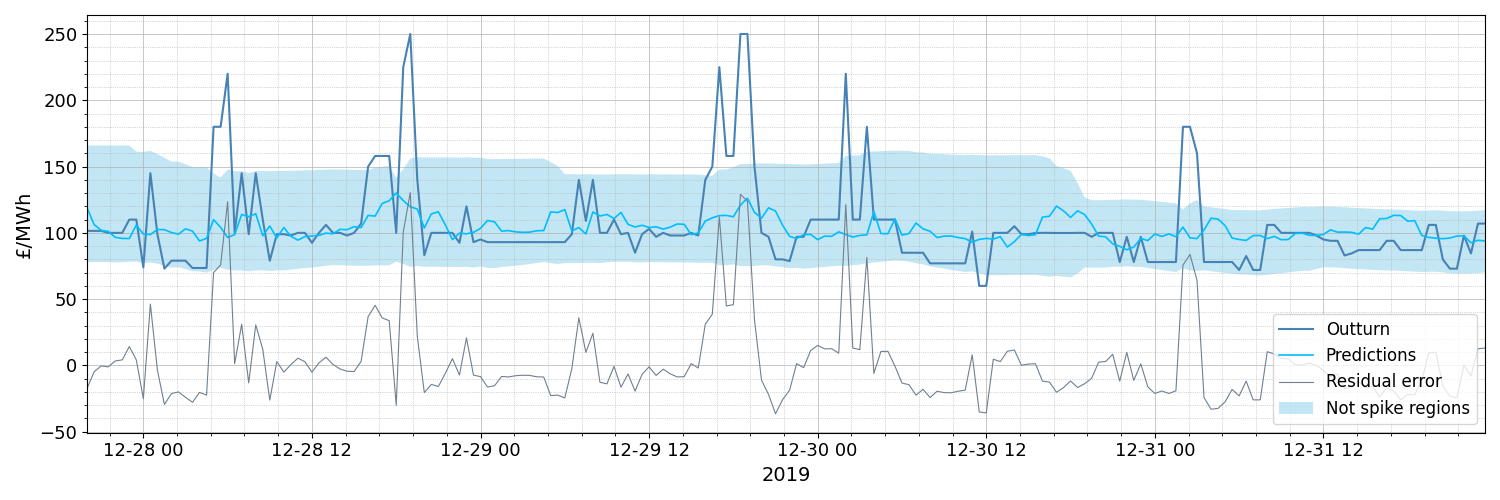
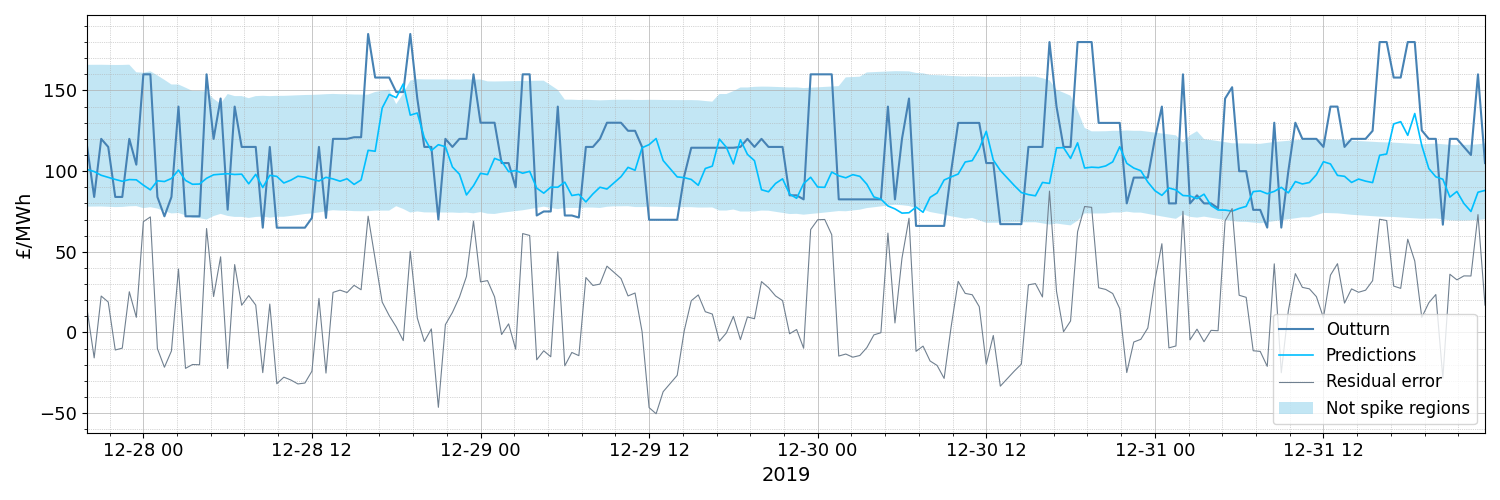
ann

diff --git a/ann.py b/ann.py
@@ -14,16 +14,15 @@ from tensorflow.keras.wrappers.scikit_learn import KerasRegressor
 from tensorflow.keras.models import Sequential
 from tensorflow.keras.layers import Dense, Dropout
 from tensorflow.keras import initializers, optimizers
-from tensorflow.keras.callbacks import EarlyStopping
 
 import utils
 
 
-ann_params = {"epochs": 500, "batch_size": 50}
+ann_params = {"batch_size": 94, "epochs": 24, "n_hidden": 1, "n_neurons": 34}
 
 
 def get_ann(
-    n_hidden=4, n_neurons=20, kernel_initializer="he_normal", bias_initializer=initializers.Ones()
+    n_hidden, n_neurons, kernel_initializer="he_normal", bias_initializer=initializers.Ones()
 ):
     model = Sequential()
 
@@ -63,7 +62,11 @@ if __name__ == "__main__":
     data = pd.read_csv("data/processed_data/data_final.csv", index_col=0, parse_dates=True)
 
     # set prediction window according to the date range required
-    data = data.loc[data.index > datetime(2017, 6, 1, tzinfo=pytz.utc), :]
+    data = data.loc[
+        (data.index >= datetime(2017, 3, 1, tzinfo=pytz.utc))
+        & (data.index < datetime(2018, 1, 1, tzinfo=pytz.utc)),
+        :,
+    ]
 
     # Divide features and labels
     y = data.pop("offers")
@@ -71,11 +74,12 @@ if __name__ == "__main__":
 
     # create regressor and scaler
     regressor = KerasRegressor(
-        build_fn=get_ann,
+        build_fn=lambda: get_ann(
+            n_hidden=ann_params["n_hidden"], n_neurons=ann_params["n_neurons"]
+        ),
         epochs=ann_params["epochs"],
         batch_size=ann_params["batch_size"],
-        validation_split=ann_params["validation_split"],
-        callbacks=EarlyStopping(patience=25),
+        validation_split=0.2,
         shuffle=False,
         verbose=2,
     )
@@ -93,11 +97,11 @@ if __name__ == "__main__":
     results = utils.get_results(y_test, y_pred)
 
     # save results
-    with open("results/results_ann_callbacks.json", "w") as f:
+    with open("results/results_ann.json", "w") as f:
         json.dump(results, f)
 
     utils.plot_results(
-        y_test, y_pred, filename="ann_callbacks", window_plot=200, fontsize=14, fig_size=(15, 5)
+        y_test, y_pred, filename="ann", window_plot=200, fontsize=14, fig_size=(15, 5)
     )
 
-    utils.plot_scatter(y_test, y_pred, filename="ann_callbacks")
+    utils.plot_scatter(y_test, y_pred, filename="ann")

diff --git a/tuning/ann_tuning.py b/tuning/ann_tuning.py
@@ -108,6 +108,13 @@ if __name__ == "__main__":
         "batch_size": hp.uniformint("batch_size", 13, 100),
     }
 
+    space = {
+        "n_hidden": hp.choice("n_hidden", [1]),
+        "n_neurons": hp.uniformint("n_neurons", 13, 50),
+        "epochs": hp.uniformint("epochs", 10, 100),
+        "batch_size": hp.uniformint("batch_size", 13, 100),
+    }
+
     trials = Trials()
 
     best_ann = fmin(
